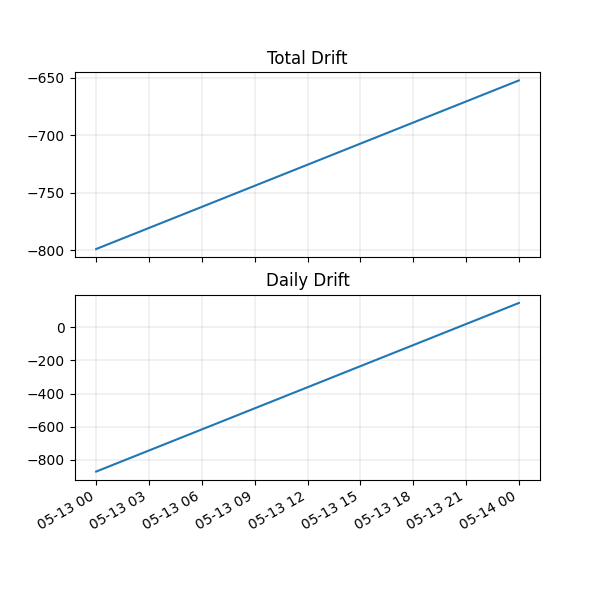
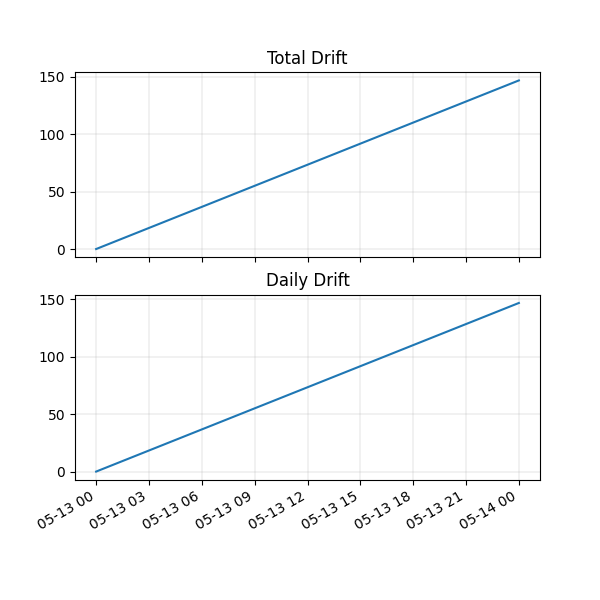
Thu May 14 15:56:03 EDT 2020

diff --git a/script/populate_readme.py b/script/populate_readme.py
@@ -22,17 +22,14 @@ def plots(data_frame, fig_name):
     fig.savefig(f"{pwd_path}../images/{fig_name}_MMMM.png", format="png")
 
     fig, (ax1, ax2) = plt.subplots(2, 1, sharex=True, figsize=(6, 6))
-    data_frame.at[0, 'drift_total'] = 0
     ax1.plot(data_frame['date'], data_frame['drift_total'])
     ax1.set_title('Total Drift')
-    ax1.grid(linewidth=0.25)
-    data_frame.at[0, 'drift_daily'] = 0
+    ax1.grid(linewidth=0.25)  
     ax2.plot(data_frame['date'], data_frame['drift_daily'])
     ax2.set_title('Daily Drift')
     ax2.grid(linewidth=0.25)
     plt.gcf().autofmt_xdate()
     fig.savefig(f"{pwd_path}../images/{fig_name}_CHANGE.png", format="png")
-
 
 sData = {}
 
@@ -70,6 +67,7 @@ for timestamp in sorted(sData.keys()):
         start_val = rMean
 
     timestamp = datetime.strptime(timestamp, "%Y-%m-%d")
+
     new_row = [
         timestamp,
         min(rData),
@@ -104,8 +102,21 @@ plots(df, "all-time")
 season1 = (df['date'] > "2020-04-11") & (df['date'] <= "2020-05-11")
 plots(df.loc[season1].copy(), "season-1")
 # season 2 plots
-season2 = (df['date'] > "2020-05-12") & (df['date'] <= "2022-01-01")
-plots(df.loc[season2].copy(), "season-2")
+season2_mask = (df['date'] > "2020-05-12") & (df['date'] <= "2022-01-01")
+season2 = df.loc[season2_mask].copy()
+season_reset = True
+start_mean = 0
+for row in season2.head().itertuples():
+    if season_reset:
+        season2.at[row.Index, 'drift_total'] = 0
+        season2.at[row.Index, 'drift_daily'] = 0
+        start_mean = row.mean
+        season_reset = False
+    else:
+        prev_mean = season2.at[row.Index-1, 'mean']
+        season2.at[row.Index, 'drift_daily'] = round(row.mean - prev_mean, 1)
+        season2.at[row.Index, 'drift_total'] = round(row.mean - start_mean, 1)
+plots(season2, "season-2")
 
 stat.append(clms)
 with open(f'{pwd_path}/../README.md', 'w') as readme_file:
@@ -143,6 +154,4 @@ with open(f'{pwd_path}/../README.md', 'w') as readme_file:
             line = "|:---" * row_len + " |\n"
             readme_file.write(line)
             header = False
-
-
 

diff --git a/README.md b/README.md
@@ -1,6 +1,6 @@
 # MMR Drift Status
 
-**Last Updated (UTC):** 2020-05-14 19:30:15.802100
+**Last Updated (UTC):** 2020-05-14 19:56:03.147177
 # Season 2
 ![Figure 1](/images/season-2_MMMM.png)
 ![Figure 2](/images/season-2_CHANGE.png)
